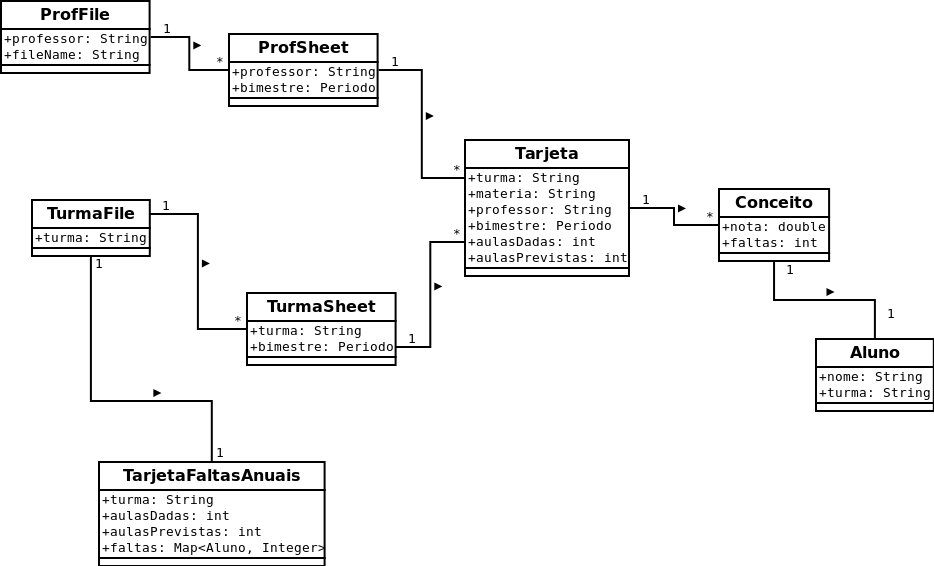
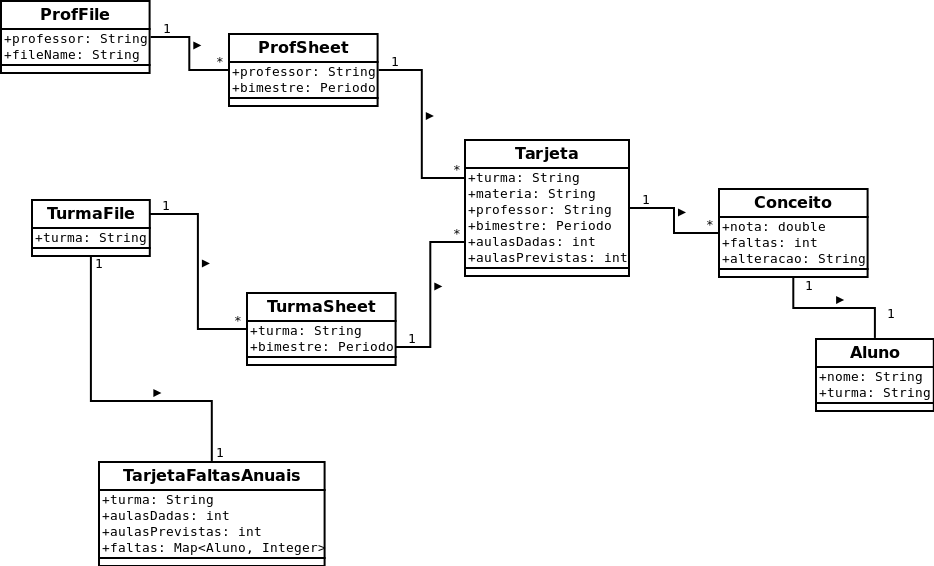
OdsParser lê 'letras' (NC, TR etc) nas tarjetas

Changed region(s): [[0.7762, 0.3304, 0.9315, 0.5707], [0.7141, 0.3604, 0.7762, 0.4205]]

diff --git a/src/sp/alvaro/model/Conceito.java b/src/sp/alvaro/model/Conceito.java
@@ -5,6 +5,7 @@ public class Conceito {
     private Aluno aluno; 
     private double nota;
     private int faltas;
+    private String alteracao; // TR, NC, AB, RM
     
     public boolean isNulo() {
     	if (nota == 0 && faltas == 0)
@@ -54,45 +55,59 @@ public class Conceito {
         this.faltas = faltas;
     }
 
+    public String getAlteracao() {
+		return alteracao;
+	}
 
-    @Override
-    public int hashCode() {
-        final int prime = 31;
-        int result = 1;
-        result = prime * result + ((aluno == null) ? 0 : aluno.hashCode());
-        result = prime * result + faltas;
-        long temp;
-        temp = Double.doubleToLongBits(nota);
-        result = prime * result + (int) (temp ^ (temp >>> 32));
-        return result;
-    }
+	public void setAlteracao(String alteracao) {
+		this.alteracao = alteracao;
+	}
 
+	@Override
+	public int hashCode() {
+		final int prime = 31;
+		int result = 1;
+		result = prime * result
+				+ ((alteracao == null) ? 0 : alteracao.hashCode());
+		result = prime * result + ((aluno == null) ? 0 : aluno.hashCode());
+		result = prime * result + faltas;
+		long temp;
+		temp = Double.doubleToLongBits(nota);
+		result = prime * result + (int) (temp ^ (temp >>> 32));
+		return result;
+	}
 
-    @Override
-    public boolean equals(Object obj) {
-        if (this == obj)
-            return true;
-        if (obj == null)
-            return false;
-        if (getClass() != obj.getClass())
-            return false;
-        Conceito other = (Conceito) obj;
-        if (aluno == null) {
-            if (other.aluno != null)
-                return false;
-        } else if (!aluno.equals(other.aluno))
-            return false;
-        if (faltas != other.faltas)
-            return false;
-        if (Double.doubleToLongBits(nota) != Double.doubleToLongBits(other.nota))
-            return false;
-        return true;
-    }
+	@Override
+	public boolean equals(Object obj) {
+		if (this == obj)
+			return true;
+		if (obj == null)
+			return false;
+		if (getClass() != obj.getClass())
+			return false;
+		Conceito other = (Conceito) obj;
+		if (alteracao == null) {
+			if (other.alteracao != null)
+				return false;
+		} else if (!alteracao.equals(other.alteracao))
+			return false;
+		if (aluno == null) {
+			if (other.aluno != null)
+				return false;
+		} else if (!aluno.equals(other.aluno))
+			return false;
+		if (faltas != other.faltas)
+			return false;
+		if (Double.doubleToLongBits(nota) != Double
+				.doubleToLongBits(other.nota))
+			return false;
+		return true;
+	}
 
-
-    @Override
-    public String toString() {
-        return "Conceito [aluno=" + aluno + ", nota=" + nota + ", faltas=" + faltas + "]";
-    }
+	@Override
+	public String toString() {
+		return "Conceito [aluno=" + aluno + ", nota=" + nota + ", faltas="
+				+ faltas + ", alteracao=" + alteracao + "]";
+	}
 
 }

diff --git a/test/sp/alvaro/OdsParserTest.java b/test/sp/alvaro/OdsParserTest.java
@@ -9,6 +9,7 @@ import java.util.Set;
 import org.junit.Before;
 import org.junit.Test;
 
+import sp.alvaro.model.Conceito;
 import sp.alvaro.model.ProfFile;
 import sp.alvaro.model.ProfSheet;
 import sp.alvaro.model.Tarjeta;
@@ -143,6 +144,25 @@ public class OdsParserTest {
         for (Tarjeta tarj: profSheet.getTarjetas()) {
             assertEquals(expectTarjSize, tarj.getNotas().size());
         }
+        
+        Tarjeta tarj6a = profSheet.getTarjetas().get(0);
+        Tarjeta tarj6b = profSheet.getTarjetas().get(1);
+        Tarjeta tarj6c = profSheet.getTarjetas().get(2);
+
+        Conceito c = tarj6a.getNotas().get(1);
+        assertEquals("NC", c.getAlteracao());
+        
+        c = tarj6b.getNotas().get(2);
+        assertEquals("AB", c.getAlteracao());
+
+        c = tarj6c.getNotas().get(1);
+        assertEquals("RM", c.getAlteracao());
+
+        c = tarj6c.getNotas().get(2);
+        assertEquals("NC", c.getAlteracao());
+        
+        c = tarj6a.getNotas().get(0);
+        assertEquals(null, c.getAlteracao());
     }
     
     @Test

diff --git a/src/sp/alvaro/odf/OdsParser.java b/src/sp/alvaro/odf/OdsParser.java
@@ -219,12 +219,14 @@ public class OdsParser implements NotasParser {
             String faltas = table.getCellByPosition(yf.getValor().concat(Integer.toString(row))).getDisplayText();
 
             int notaInt = 0, faltasInt = 0;
+            String alteracao = null;
             if (nota != null && !nota.isEmpty()) {
                 try {
                     notaInt = Integer.parseInt(nota);
                 }
                 catch(NumberFormatException e) {
-                    ;
+                    if (nota != null && !nota.isEmpty())
+                    	alteracao = nota;
                 }
                 try {
                     faltasInt = Integer.parseInt(faltas);
@@ -234,6 +236,7 @@ public class OdsParser implements NotasParser {
                 }                
             }
             Conceito conc = new Conceito(new Aluno(aluno, turma), notaInt, faltasInt);
+            conc.setAlteracao(alteracao);
             tarj.getNotas().add(conc);
             
             row++;
